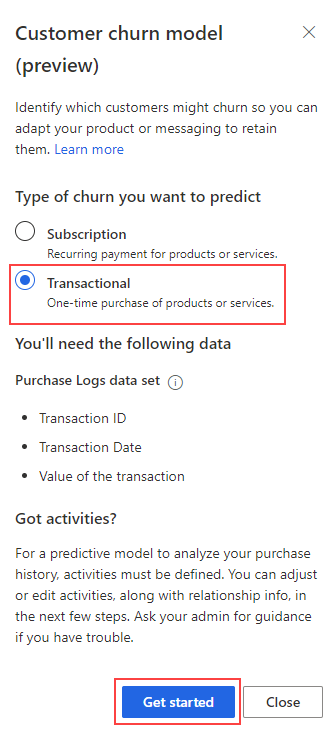
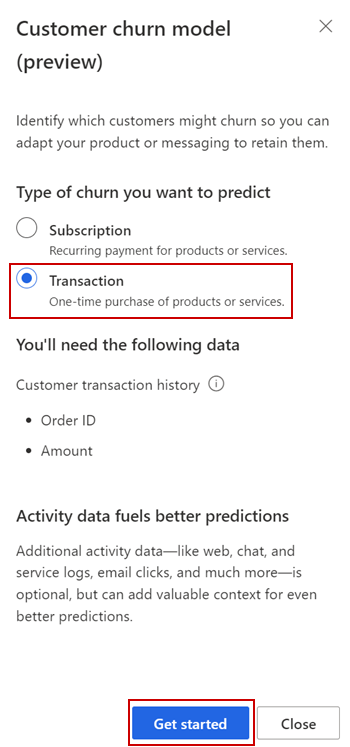
update images and steps

diff --git a/ci-docs/audience-insights/predict-transactional-churn.md b/ci-docs/audience-insights/predict-transactional-churn.md
@@ -1,7 +1,7 @@
 ---
 title: Transaction churn prediction (contains video)
 description: "Predict whether a customer is at risk for no longer purchasing your products or services."
-ms.date: 10/20/2021
+ms.date: 13/01/2022
 ms.reviewer: mhart
 ms.service: customer-insights
 ms.subservice: audience-insights
@@ -98,10 +98,10 @@ For environments based on business accounts, we can predict transactional churn 
 
 1. Select the **Customer churn model (preview)** tile and select **Use this model**.
 
-1. In the **Customer churn model** pane, choose **Transaction** and select **Get started**.
+1. In the **Customer churn model (preview)** pane, choose **Transaction** and select **Get started**.
 
 :::image type="content" source="media/select-transaction-churn.PNG" alt-text="Screenshot with selected transaction option in Customer churn model pane.":::
-
+ 
 ### Name model
 
 1. Provide a name for the model to distinguish it from other models.
@@ -112,11 +112,11 @@ For environments based on business accounts, we can predict transactional churn 
 
 ### Define customer churn
 
-1. Set a window of days to predict churn for in the **Identify customers who may churn in the next** field. For example, predict the risk of churn for your customers over the next 90 days to align to your marketing retention efforts. Predicting churn risk for a longer or shorter period of time can make it more difficult to address the factors in your churn risk profile, but it depends on your specific business requirements.
+1. Set the **Prediction window**. For example, predict the risk of churn for your customers over the next 90 days to align to your marketing retention efforts. Predicting churn risk for a longer or shorter period of time can make it more difficult to address the factors in your churn risk profile, but it depends on your specific business requirements.
    >[!TIP]
-   > You can select **Save and close** at any time to save the prediction as a draft. You'll find the draft prediction in the **My predictions** tab to continue.
+   > You can select **Save draft** at any time to save the prediction as a draft. You'll find the draft prediction in the **My predictions** tab to continue.
 
-1. Enter the number of days to define churn in the **A customer has churned if they've made no purchases in:** field. For example, if a customer has made no purchases in the last 30 days, they might be considered as churned for your business. 
+1. Enter the number of days to define churn in the **Churn definition** field. For example, if a customer has made no purchases in the last 30 days, they might be considered as churned for your business. 
 
 1. Select **Next** to continue.
 
@@ -124,19 +124,16 @@ For environments based on business accounts, we can predict transactional churn 
 
 1. Select **Add data** and choose the activity type in the side pane that contains the required transaction or purchase history information.
 
-1. Under **Choose the activities**, choose the specific activities from the selected activity you'd like the calculation to focus on.
+1. Under **Select activities**, choose the specific activities from the selected activity type you'd like the calculation to focus on.
 
-   :::image type="content" source="media/product-recommendation-select-semantic-activity.PNG" alt-text="Side pane showing choosing specific activities under the semantic type.":::
+   :::image type="content" source="media/transaction-churn-select-activity.PNG" alt-text="Side pane showing choosing specific activities under the semantic type.":::
 
-1. If you haven't mapped the activity to a semantic type yet, select **Edit** to do so. The guided experience to map semantic activities opens. Map your data to the corresponding fields in the selected activity type.
+   If you haven't mapped the activity to a semantic type yet, select **Edit** to do so. The guided experience to map semantic activities opens. Map your data to the corresponding fields in the selected activity type.
 
-   :::image type="content" source="media/product-recommendation-set-activity-type.PNG" alt-text="Page setting activity type.":::
+1. Map the semantic attributes to the fields that are required to run the model. If the fields below aren't populated, configure the relationship from your purchase history entity to the *Customer* entity. Select **Save**.
 
-1. After mapping the activity to the corresponding semantic type, select **Next** to proceed
+1. In the **Add required data** step, select **Next** to proceed if you don't want to add more activities.
 
-1. Map the semantic attributes to the fields that are required to run the model. If the fields below aren't populated, configure the relationship from your purchase history entity to the *Customer* entity.
-
-1. Select **Next**.
 
 # [Individual consumers (B-to-C)](#tab/b2c)
 
